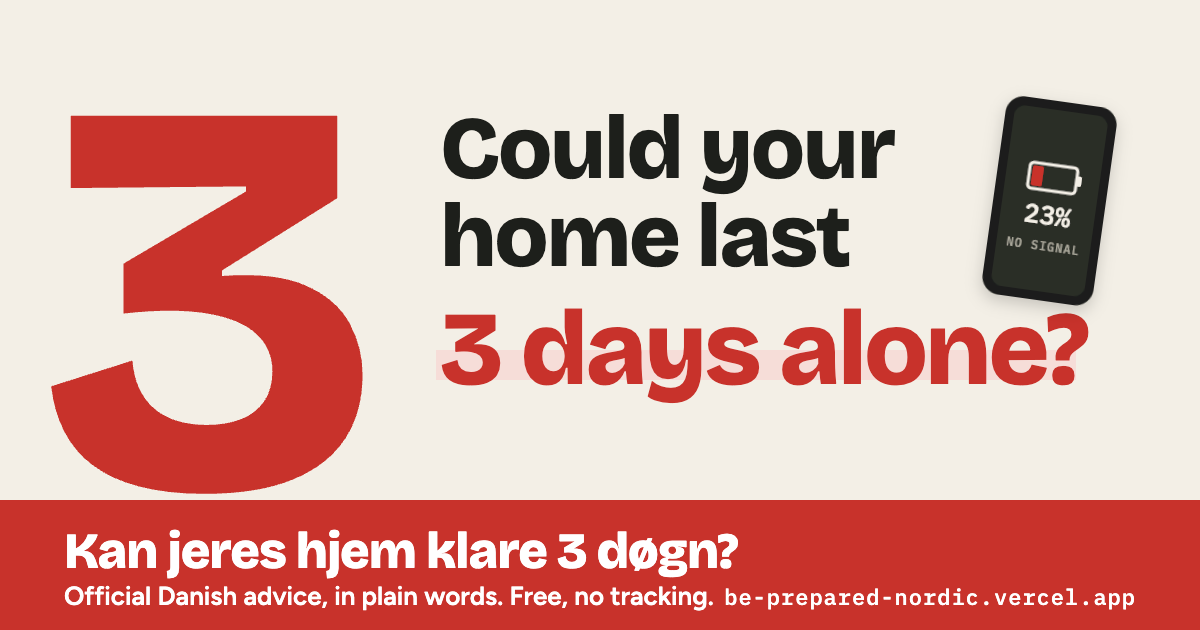
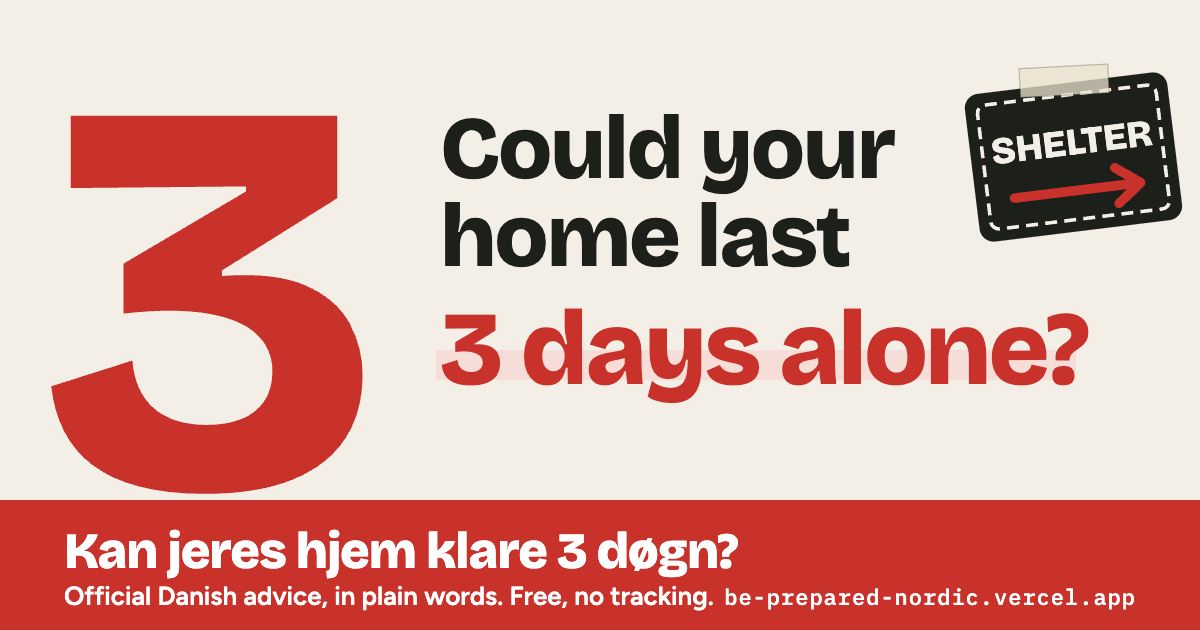
Share image: use the taped shelter sign

Changed region(s): [[0.8017, 0.0905, 0.9867, 0.5127]]

diff --git a/index.html b/index.html
@@ -34,7 +34,7 @@
 <meta property="og:image" content="https://be-prepared-nordic.vercel.app/og-image.png">
 <meta property="og:image:width" content="1200">
 <meta property="og:image:height" content="630">
-<meta property="og:image:alt" content="Could your home last 3 days alone? Kan jeres hjem klare 3 døgn?">
+<meta property="og:image:alt" content="Could your home last 3 days alone? A taped-up shelter sign and a big red 3. Kan jeres hjem klare 3 døgn?">
 <meta property="og:locale" content="en_GB">
 <meta property="og:locale:alternate" content="da_DK">
 <meta name="twitter:card" content="summary_large_image">

diff --git a/sw.js b/sw.js
@@ -1,5 +1,5 @@
 /* Offline support: the page keeps working without internet or power-grid problems. */
-var CACHE = 'ready-kit-v16';
+var CACHE = 'ready-kit-v17';
 var CORE = ['./', 'index.html', 'app.js', 'theme.js', 'fonts/figtree-latin-wght-normal.woff2', 'fonts/bricolage-grotesque-latin-wght-normal.woff2', 'fonts/ibm-plex-mono-latin-500-normal.woff2', 'manifest.webmanifest', 'icon.svg', 'favicon.ico', 'icon-192.png', 'icon-512.png', 'apple-touch-icon.png'];
 
 self.addEventListener('install', function (e) {
